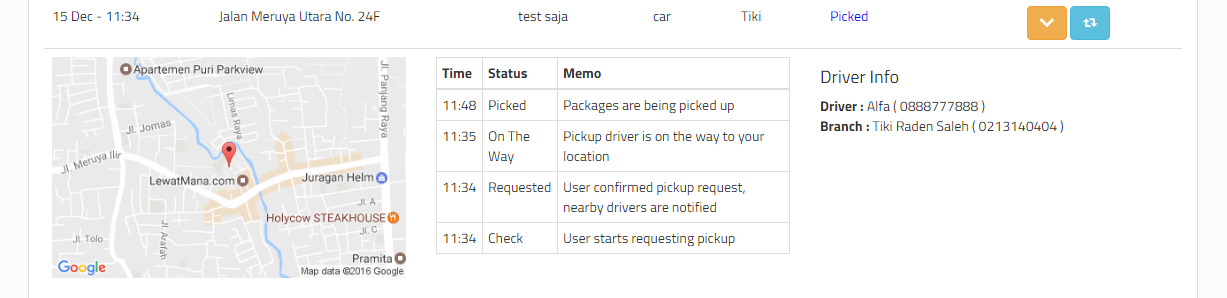
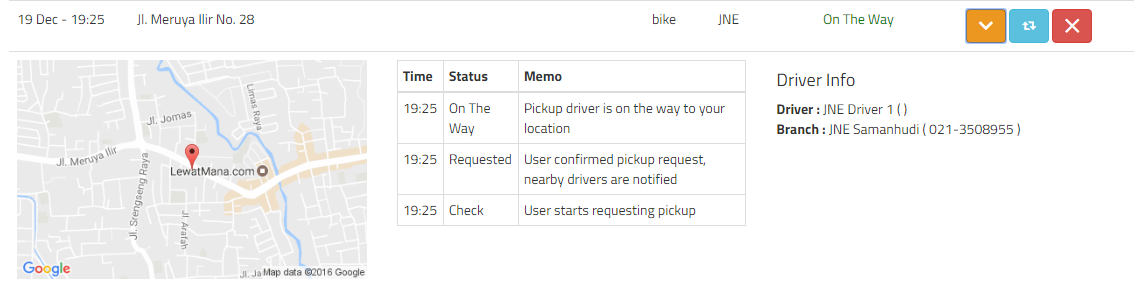
Creates assets/pickup from here.png
Auto commit by GitBook Editor

diff --git a/pickup.md b/pickup.md
@@ -11,6 +11,7 @@ Sebelum melakukan request pickup, pastikan sudah memiliki kode booking. Jika And
 * Buka halaman [pickup](https://paket.id/pickup)
 
 * Cari lokasi pickup pada input ‘Search place’ lalu klik pada map untuk menunjukkan lokasi yang lebih akurat
+
 * Masukkan keterangan tambahan pada input ‘Extra detail’, misalnya patokan rumah
 * Pilih jenis kendaraannya, bisa mobil atau motor
 * Pilih kurir yang akan menjemput: Tiki, SML Express, atau JNE
@@ -49,8 +50,6 @@ Paket yang sudah di-pickup oleh driver akan ter-update dengan status 'Picked', t
 1. Tunggu beberapa saat
 
    Jika ada driver yang available untuk menjemput paket, Anda akan menerima notifikasi bahwa driver ‘is on the way’. Informasi driver seperti nama dan nomor plat kendaraan tertera dan bisa langsung klik icon ‘call’ atau ‘message’ untuk menghubungi driver yang akan pickup.
-
-2. Anda dapat membayar jumlah ongkos kirim secara tunai kepada driver atau transfer ke rekening vendor logistik
 
 
 

diff --git a/re-pickup.md b/re-pickup.md
@@ -1,0 +1,26 @@
+## Re-pickup
+
+Anda dapat membuat requst pickup dengan alamat yang sama dengan cara:
+
+### Web
+
+* Masuk ke tab history pickup
+* Klik tombol **biru** pada history pickup yang Anda pilih
+* Klik OK pada alert 'Use this address as new pickup?'
+* Pada form pickup akan otomatis menampilkan alamat dan extra detail yang sama dengan alamat yang Anda pilih pada history
+* Pilih kurir dan jenis kendaraannya
+* Klik Pickup
+
+![](/assets/pickup history done.png)
+
+### Android
+
+* Masuk ke history pickup
+* Klik menu pilihan \(![](/assets/button-of-three-vertical-squares.png)\) di kanan atas dan pilih 'See detail'
+
+![](/assets/pickup history overflow menu.png)
+* Klik 'Pickup from here'
+
+![](/assets/pickup from here.png)
+
+

diff --git a/status-pickup.md b/status-pickup.md
@@ -1,0 +1,13 @@
+## Status Pickup
+
+![](/assets/pickup history.png)
+
+Keterangan tombol history pickup :
+
+1. Tombol kuning, menampilkan detail request pickup seperti nama driver, nama lokasi agen, status pickup, dan peta lokasi
+2. Tombol biru, menggunakan kembali alamat yang sama untuk request pickup yang baru
+3. Tombol merah, membatalkan pickup. Request pickup yang bisa dibatalkan hanya yang statusnya requested dan on the way
+
+
+
+

diff --git a/SUMMARY.md b/SUMMARY.md
@@ -20,8 +20,8 @@
     * [Print Label](print-label.md)
     * [Cek Ongkir](cek-ongkir.md)
     * [Pickup](pickup.md)
-        * Re-pickup
-        * Status Pickup
+        * [Re-pickup](re-pickup.md)
+        * [Status Pickup](status-pickup.md)
     * [SMS Tracking](sms-tracking.md)
     * [Laporan Pengiriman](laporan-pengiriman.md)
 * [API](api.md)
